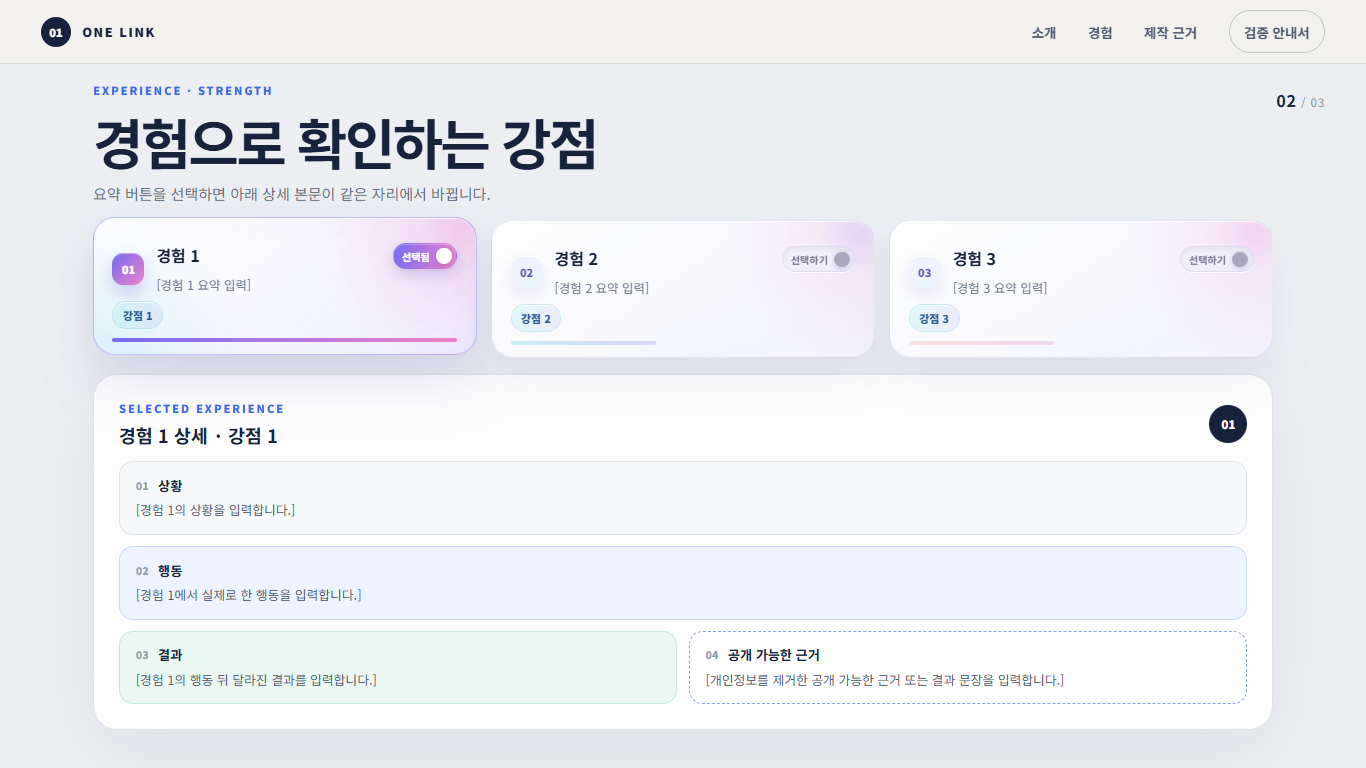
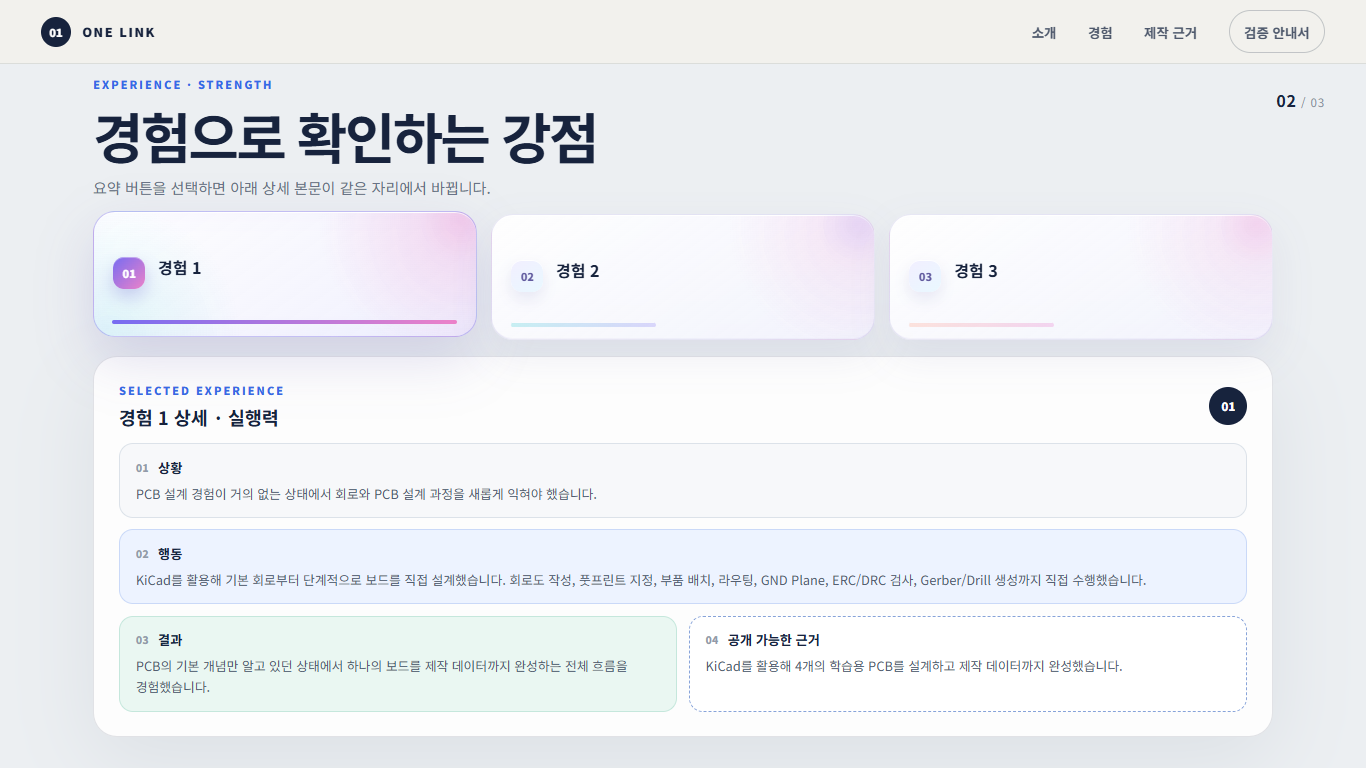
fix: 콘텐츠 삽입

diff --git a/src/data/content.js b/src/data/content.js
@@ -2,39 +2,41 @@ export const experiences = [
   {
     id: 1,
     title: "경험 1",
-    strength: "강점 1",
-    summary: "[경험 1 요약 입력]",
-    situation: "[경험 1의 상황을 입력합니다.]",
-    action: "[경험 1에서 실제로 한 행동을 입력합니다.]",
-    result: "[경험 1의 행동 뒤 달라진 결과를 입력합니다.]",
-    evidence: "[개인정보를 제거한 공개 가능한 근거 또는 결과 문장을 입력합니다.]",
+    strength: "실행력",
+    situation: "PCB 설계 경험이 거의 없는 상태에서 회로와 PCB 설계 과정을 새롭게 익혀야 했습니다.",
+    action: "KiCad를 활용해 기본 회로부터 단계적으로 보드를 직접 설계했습니다. 회로도 작성, 풋프린트 지정, 부품 배치, 라우팅, GND Plane, ERC/DRC 검사, Gerber/Drill 생성까지 직접 수행했습니다.",
+    result: "PCB의 기본 개념만 알고 있던 상태에서 하나의 보드를 제작 데이터까지 완성하는 전체 흐름을 경험했습니다.",
+    evidence: "KiCad를 활용해 4개의 학습용 PCB를 설계하고 제작 데이터까지 완성했습니다.",
   },
   {
     id: 2,
     title: "경험 2",
-    strength: "강점 2",
-    summary: "[경험 2 요약 입력]",
-    situation: "[경험 2의 상황을 입력합니다.]",
-    action: "[경험 2에서 실제로 한 행동을 입력합니다.]",
-    result: "[경험 2의 행동 뒤 달라진 결과를 입력합니다.]",
-    evidence: "[필요한 경우 공개 가능한 근거 또는 결과 문장을 입력합니다.]",
+    strength: "분석력",
+    situation: "네트워크, 보안, 회로 등 새로운 기술을 공부하면서 용어만 암기해서는 개념을 제대로 이해하기 어려웠습니다.",
+    action: "개념을 단순히 외우기보다 왜 그렇게 동작하는지 질문하고, 입력부터 처리 과정과 결과까지 연결해서 이해하려고 했습니다.",
+    result: "새로운 개념을 기존 지식과 연결하고, 동작 원리를 기준으로 정리하는 학습 방식을 만들었습니다.",
+    evidence: "새로운 기술을 학습할 때 정의보다 동작 과정과 원인을 중심으로 정리합니다.",
   },
   {
     id: 3,
     title: "경험 3",
-    strength: "강점 3",
-    summary: "[경험 3 요약 입력]",
-    situation: "[경험 3의 상황을 입력합니다.]",
-    action: "[경험 3에서 실제로 한 행동을 입력합니다.]",
-    result: "[경험 3의 행동 뒤 달라진 결과를 입력합니다.]",
-    evidence: "[필요한 경우 공개 가능한 근거 또는 결과 문장을 입력합니다.]",
+    strength: "판단력",
+    situation: "팀 프로젝트에서 발표 직전 핵심 자료 누락, 준비 부족 등 여러 문제가 동시에 발생하는 상황을 다뤘습니다.",
+    action: "모든 문제를 한꺼번에 해결하려 하기보다 발표에 필요한 핵심 자료를 먼저 복원하고, 프로젝트 내용을 잘 아는 사람이 발표를 맡도록 우선순위를 정했습니다.",
+    result: "제한된 시간에는 모든 문제보다 목표에 가장 큰 영향을 주는 문제를 먼저 해결해야 한다는 기준을 세울 수 있었습니다.",
+    evidence: "팀 프로젝트 위기 상황에서 핵심 자료 복원과 역할 재배치를 우선 해결책으로 제시했습니다.",
   },
 ];
 
+export const profile = {
+  headline: "원리를 이해하고 직접 해보며 성장하는 사람입니다.",
+  description: "새로운 기술을 배울 때 단순히 외우기보다 구조와 이유를 파악하고, 직접 실습하며 익히는 것을 좋아합니다.",
+};
+
 export const scope = {
-  audience: "이 페이지는 [대상]에게 [보여줄 내용]을 보여주기 위한 것이다.",
-  publicItems: ["작업 방식", "완료한 경험", "개인정보를 제거한 결과"],
-  privateItems: ["실명·학교·얼굴", "주소·전화번호·이메일", "계정·비밀번호·비밀값"],
+  audience: "이 페이지는 함께 일할 사람들에게 제가 어떻게 배우고 문제를 해결하는지 보여주기 위한 것입니다.",
+  publicItems: ["학습 과정", "프로젝트 경험", "문제 해결 과정"],
+  privateItems: ["개인정보", "계정 정보", "타인의 개인 정보"],
 };
 
 export const qualityChecks = [

diff --git a/src/App.jsx b/src/App.jsx
@@ -1,7 +1,7 @@
 import { useEffect, useLayoutEffect, useRef, useState } from "react";
 import { gsap } from "gsap";
 import { ScrollTrigger } from "gsap/ScrollTrigger";
-import { experiences, qualityChecks, scope } from "./data/content";
+import { experiences, profile, qualityChecks, scope } from "./data/content";
 
 gsap.registerPlugin(ScrollTrigger);
 
@@ -39,8 +39,8 @@ function IntroSection() {
       <div className="intro-grid section-inner">
         <div className="intro-copy reveal-group">
           <p className="eyebrow">ONE LINK PORTFOLIO · INTRO</p>
-          <h1 id="intro-title">[소개 문장 입력]</h1>
-          <p className="intro-lede">[활동을 설명하는 문장 입력]</p>
+          <h1 id="intro-title">{profile.headline}</h1>
+          <p className="intro-lede">{profile.description}</p>
           <div className="strength-chips" aria-label="강점 세 가지">
             {experiences.map((item) => <span key={item.id}>{item.strength}</span>)}
           </div>
@@ -48,7 +48,7 @@ function IntroSection() {
             <span className="status-dot" aria-hidden="true" />
             <div>
               <span>확인 가능한 근거</span>
-              <strong>경험 1에 공개 가능한 근거를 연결합니다.</strong>
+              <strong>KiCad로 4개의 학습용 PCB 설계와 제작 데이터를 완성했습니다.</strong>
             </div>
           </div>
         </div>
@@ -131,7 +131,6 @@ function ExperiencesSection() {
               >
                 <span className="experience-number">0{item.id}</span>
                 <strong>{item.title}</strong>
-                <span className="experience-summary">{ }</span>
               </button>
             );
           })}
@@ -180,7 +179,7 @@ function ProofSection() {
             <span className="frame-label">BEFORE</span>
             <div className="frame-placeholder">
               <span aria-hidden="true">01</span>
-              <p>실제 결함을 발견한 뒤<br />수정 전 화면을 연결합니다.</p>
+              <p>1366×768에서 장식 배경이<br />섹션 너비를 109px 넘었습니다.</p>
             </div>
           </article>
           <div className="proof-arrow" aria-hidden="true">→</div>
@@ -188,7 +187,7 @@ function ProofSection() {
             <span className="frame-label">AFTER</span>
             <div className="frame-placeholder">
               <span aria-hidden="true">02</span>
-              <p>같은 해상도와 위치에서<br />수정 후 화면을 연결합니다.</p>
+              <p>배경 위치와 이동 범위를 조정해<br />가로 넘침을 0건으로 줄였습니다.</p>
             </div>
           </article>
         </div>

diff --git a/src/styles.css b/src/styles.css
@@ -157,8 +157,8 @@ img { max-width: 100%; height: auto; }
   --card-accent-b: #ec82c9;
   position: relative; min-width: 0; min-height: 126px;
   display: grid; grid-template-columns: 32px minmax(0, 1fr);
-  grid-template-areas: "num title" "num summary";
-  gap: 0.3rem 0.8rem; align-content: center; padding: 1.2rem 1.2rem 1.42rem;
+  grid-template-areas: "num title";
+  gap: 0.8rem; align-content: center; padding: 1.2rem 1.2rem 1.42rem;
   overflow: hidden; text-align: left; border: 1px solid rgba(102,94,181,0.13);
   border-radius: 22px;
   background:
@@ -219,8 +219,6 @@ img { max-width: 100%; height: auto; }
   box-shadow: 0 8px 18px rgba(99,87,205,0.28), inset 0 1px 0 rgba(255,255,255,0.38);
 }
 .experience-button strong { grid-area: title; font-size: 1rem; line-height: 1.25; }
-.experience-summary { grid-area: summary; color: var(--muted); font-size: 0.78rem; line-height: 1.5; overflow-wrap: anywhere; }
-.experience-summary:empty { display: none; }
 .experience-detail {
   min-width: 0; padding: clamp(1.1rem, 2vw, 1.55rem); border-radius: var(--radius-lg);
   border: 1px solid rgba(23,35,61,0.12); background: rgba(255,255,255,0.88); box-shadow: var(--shadow);

diff --git a/src/VerificationPage.jsx b/src/VerificationPage.jsx
@@ -62,7 +62,7 @@ export default function VerificationPage() {
         <section className="verification-section" aria-labelledby="status-title">
           <div className="verification-heading">
             <p className="eyebrow">CURRENT STATUS</p>
-            <h2 id="status-title">구현 후 채울 검사 결과</h2>
+            <h2 id="status-title">현재 검사 결과</h2>
           </div>
           <div className="status-grid">
             {statusItems.map(([item, result], index) => (
@@ -78,9 +78,9 @@ export default function VerificationPage() {
             <p className="block-label">PRIVACY</p>
             <h2>공개하지 않을 정보</h2>
             <ul>
-              <li>실명·학교·얼굴</li>
-              <li>주소·전화번호·이메일</li>
-              <li>브라우저 계정명·로컬 경로</li>
+              <li>개인정보</li>
+              <li>계정 정보</li>
+              <li>타인의 개인 정보</li>
             </ul>
           </article>
           <article className="verification-block danger-block">

diff --git a/records/completion-checklist.md b/records/completion-checklist.md
@@ -1,14 +1,14 @@
 # 완주 체크리스트
 
-- [ ] 공개 주소가 다른 브라우저에서도 열린다.
-- [ ] 대상 문장과 공개·비공개 점검표가 있다.
-- [ ] 경험 1·2·3의 상황·행동·결과가 채워졌다.
-- [ ] 공개 가능한 근거 1개가 연결됐다.
+- [ ] 최신 콘텐츠를 배포한 공개 주소가 다른 브라우저에서도 열린다.
+- [x] 대상 문장과 공개·비공개 점검표가 있다.
+- [x] 경험 1·2·3의 상황·행동·결과가 채워졌다.
+- [x] 공개 가능한 근거 1개 이상이 연결됐다.
 - [x] 두 해상도에서 핵심 3개가 보이고 가로 넘침이 없다.
 - [x] 결함 3개 이상을 고친 전·후 기록과 콘솔 오류 0건 확인이 있다.
 - [x] 상호작용이 마우스와 키보드에서 모두 작동한다.
-- [x] 현재 자리표시자 버전에서 공개하지 않기로 한 개인정보가 0건이다.
-- [x] 현재 자리표시자 버전에서 비밀번호·토큰·API 키 등 비밀값이 0건이다.
+- [x] 실제 콘텐츠를 반영한 페이지와 제출 기록에서 공개하지 않기로 한 개인정보가 0건이다.
+- [x] 실제 콘텐츠를 반영한 페이지·배포 파일에서 비밀번호·토큰·API 키 등 비밀값이 0건이다.
 - [x] AI 사용과 직접 판단을 3줄로 남겼다.
 
-실제 콘텐츠를 입력하면 개인정보·비밀값과 화면 검사를 다시 실행해야 한다.
+실제 콘텐츠 반영 후 개인정보·비밀값, 두 해상도, 상호작용 검사를 다시 실행했다. 최신 콘텐츠를 푸시한 뒤 공개 주소의 다른 브라우저 확인만 다시 수행한다.

diff --git a/records/audience-and-scope.md b/records/audience-and-scope.md
@@ -2,18 +2,16 @@
 
 ## 대상 문장
 
-이 페이지는 [대상]에게 [보여줄 내용]을 보여주기 위한 것이다.
+이 페이지는 함께 일할 사람들에게 제가 어떻게 배우고 문제를 해결하는지 보여주기 위한 것입니다.
 
 ## 공개할 것
 
-- 작업 방식
-- 완료한 경험
-- 개인정보를 제거한 결과
+- 학습 과정
+- 프로젝트 경험
+- 문제 해결 과정
 
 ## 공개하지 않을 것
 
-- 실명·학교·얼굴
-- 주소·전화번호·이메일
-- 계정·비밀번호·토큰·API 키
-
-> 실제 콘텐츠를 입력한 뒤 최종 점검한다.
+- 개인정보
+- 계정 정보
+- 타인의 개인 정보

diff --git a/records/privacy-check.md b/records/privacy-check.md
@@ -5,4 +5,4 @@
 - 화면 파일: 브라우저 프로필·로컬 경로 없음, PNG 메타데이터 0건
 - Git 기록: 비식별 작성자 `Portfolio Builder <not-public>` 사용, 이메일·전화번호·로컬 사용자 경로 0건
 
-실제 경험을 입력한 뒤 같은 검사를 다시 실행한다.
+실제 경험과 공개 범위를 반영한 뒤 같은 검사를 다시 실행했으며, 이메일·전화번호·주소·로컬 사용자 경로 패턴은 0건이다.

diff --git a/records/secret-check.md b/records/secret-check.md
@@ -6,4 +6,4 @@
 - 배포 파일: 프로덕션 빌드 후 알려진 비밀값 패턴 0건
 - Git 기록: 전체 커밋 패치에서 알려진 API 키·토큰·개인 키·로컬 사용자 경로 패턴 0건
 
-실제 경험을 입력한 뒤 같은 검사를 다시 실행한다.
+실제 경험을 반영하고 프로덕션 빌드를 다시 생성한 뒤 검사했으며, 알려진 비밀값 패턴은 0건이다.

diff --git a/records/viewport-test.md b/records/viewport-test.md
@@ -6,3 +6,5 @@
 - 주요 영역 가로 넘침: 0건
 
 검사 도구: Playwright Chromium. 최종 제출 전 다른 브라우저에서 공개 주소를 추가 확인한다.
+
+실제 소개와 경험 3개의 긴 본문을 반영한 뒤 같은 두 해상도와 모바일 화면 검사를 다시 통과했다.
